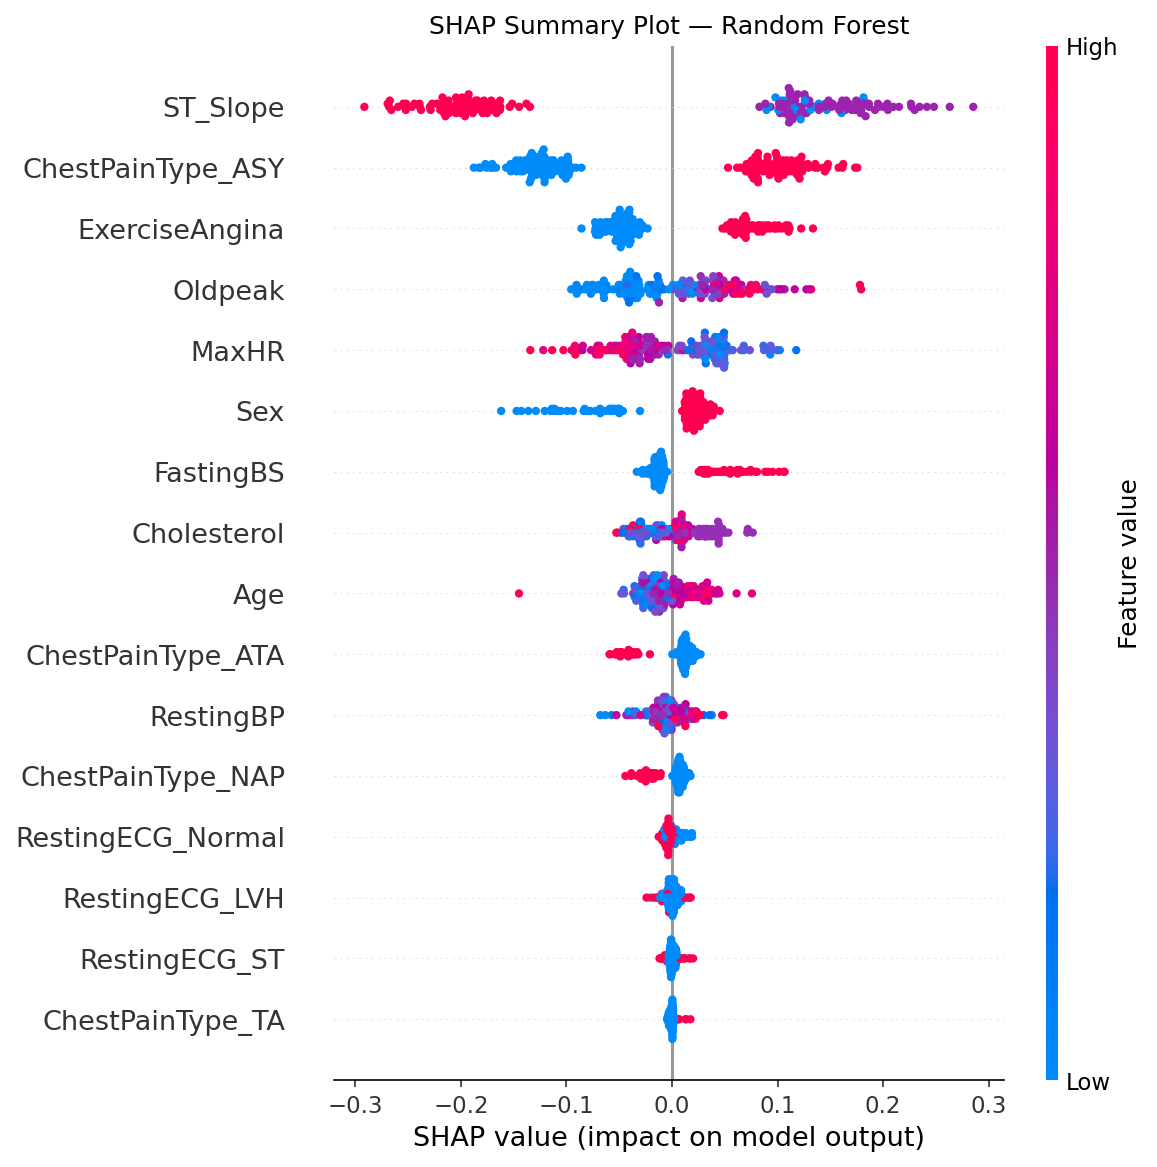
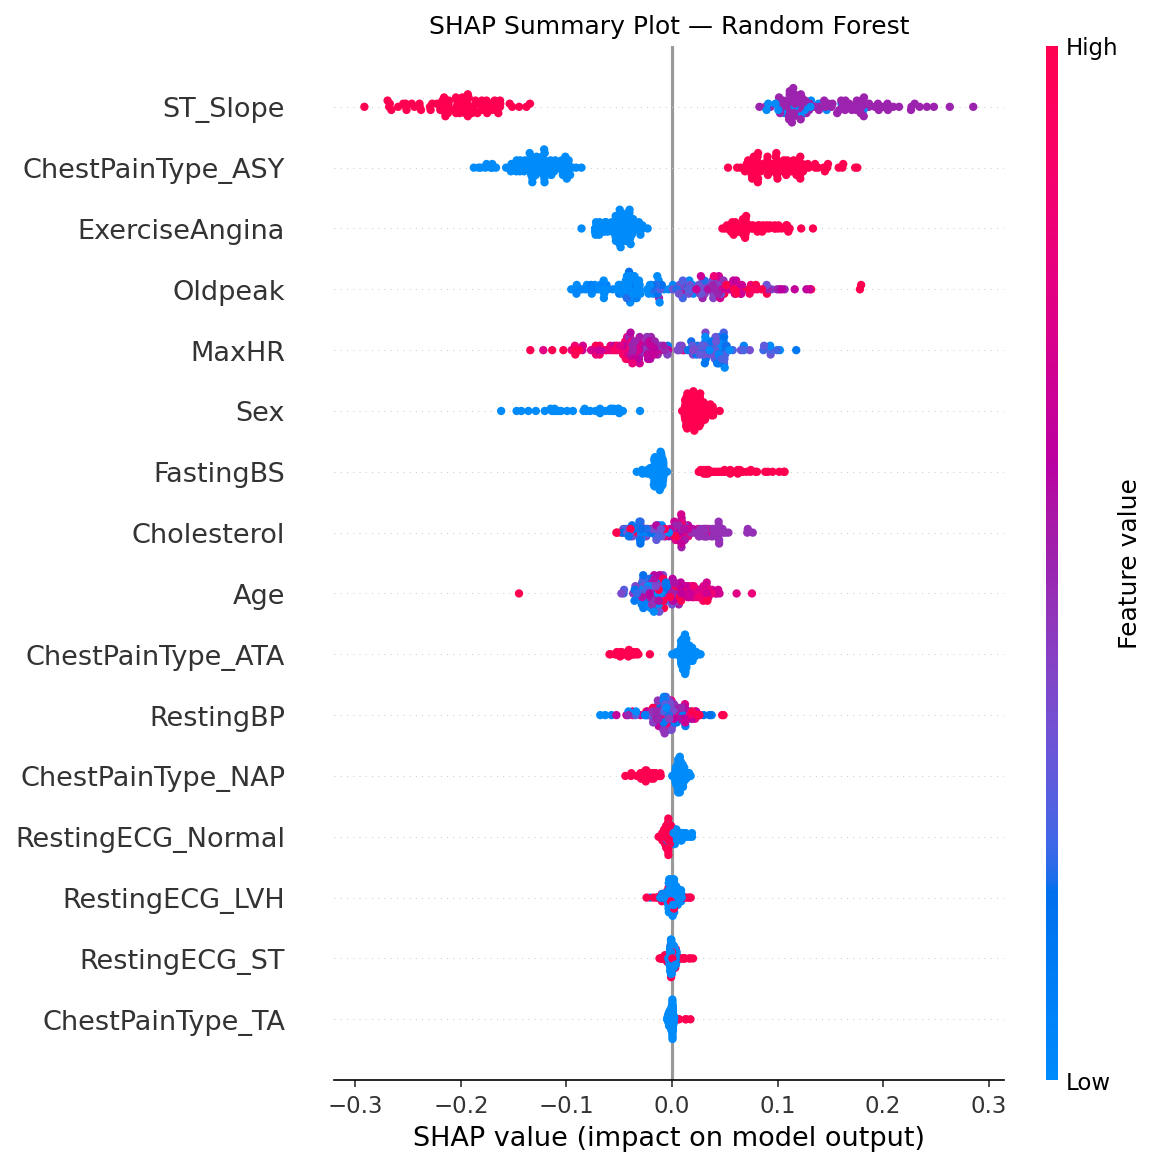
Fixed SHAP plot images

diff --git a/src/shap_explain.py b/src/shap_explain.py
@@ -1,39 +1,39 @@
 import shap
 import joblib
 import numpy as np
+import matplotlib
+matplotlib.use('Agg')
 import matplotlib.pyplot as plt
 import sys
 sys.path.append(r'F:\AI\HDRP\HDRP')
 from src.preprocess import load_and_preprocess
 
-# Load model and data
 rf_model = joblib.load(r'F:\AI\HDRP\HDRP\models\random_forest.pkl')
 X_train, X_test, y_train, y_test, scaler, feature_names = \
     load_and_preprocess(r'F:\AI\HDRP\HDRP\data\heart.csv')
 
-# Create SHAP explainer
 explainer = shap.TreeExplainer(rf_model)
 shap_values = explainer.shap_values(X_test)
 
-# Plot 1 — Summary plot (all features ranked by importance)
-plt.figure()
-shap.summary_plot(shap_values[:, :, 1], X_test, 
+# Plot 1 — Summary
+shap.summary_plot(shap_values[:, :, 1], X_test,
                   feature_names=feature_names, show=False)
 plt.title('SHAP Summary Plot — Random Forest')
 plt.tight_layout()
 plt.savefig(r'F:\AI\HDRP\HDRP\models\shap_summary.png', dpi=150, bbox_inches='tight')
-plt.show()
+plt.close()
+print('Summary plot saved')
 
-# Plot 2 — Single patient explanation (first test patient)
-plt.figure()
+# Plot 2 — Waterfall
 shap.waterfall_plot(shap.Explanation(
     values=shap_values[0, :, 1],
     base_values=explainer.expected_value[1],
     data=X_test[0],
     feature_names=feature_names
-))
+), show=False)
 plt.tight_layout()
 plt.savefig(r'F:\AI\HDRP\HDRP\models\shap_waterfall.png', dpi=150, bbox_inches='tight')
-plt.show()
+plt.close()
+print('Waterfall plot saved')
 
-print('SHAP plots saved to models/')
+print('Both SHAP plots saved to models/')